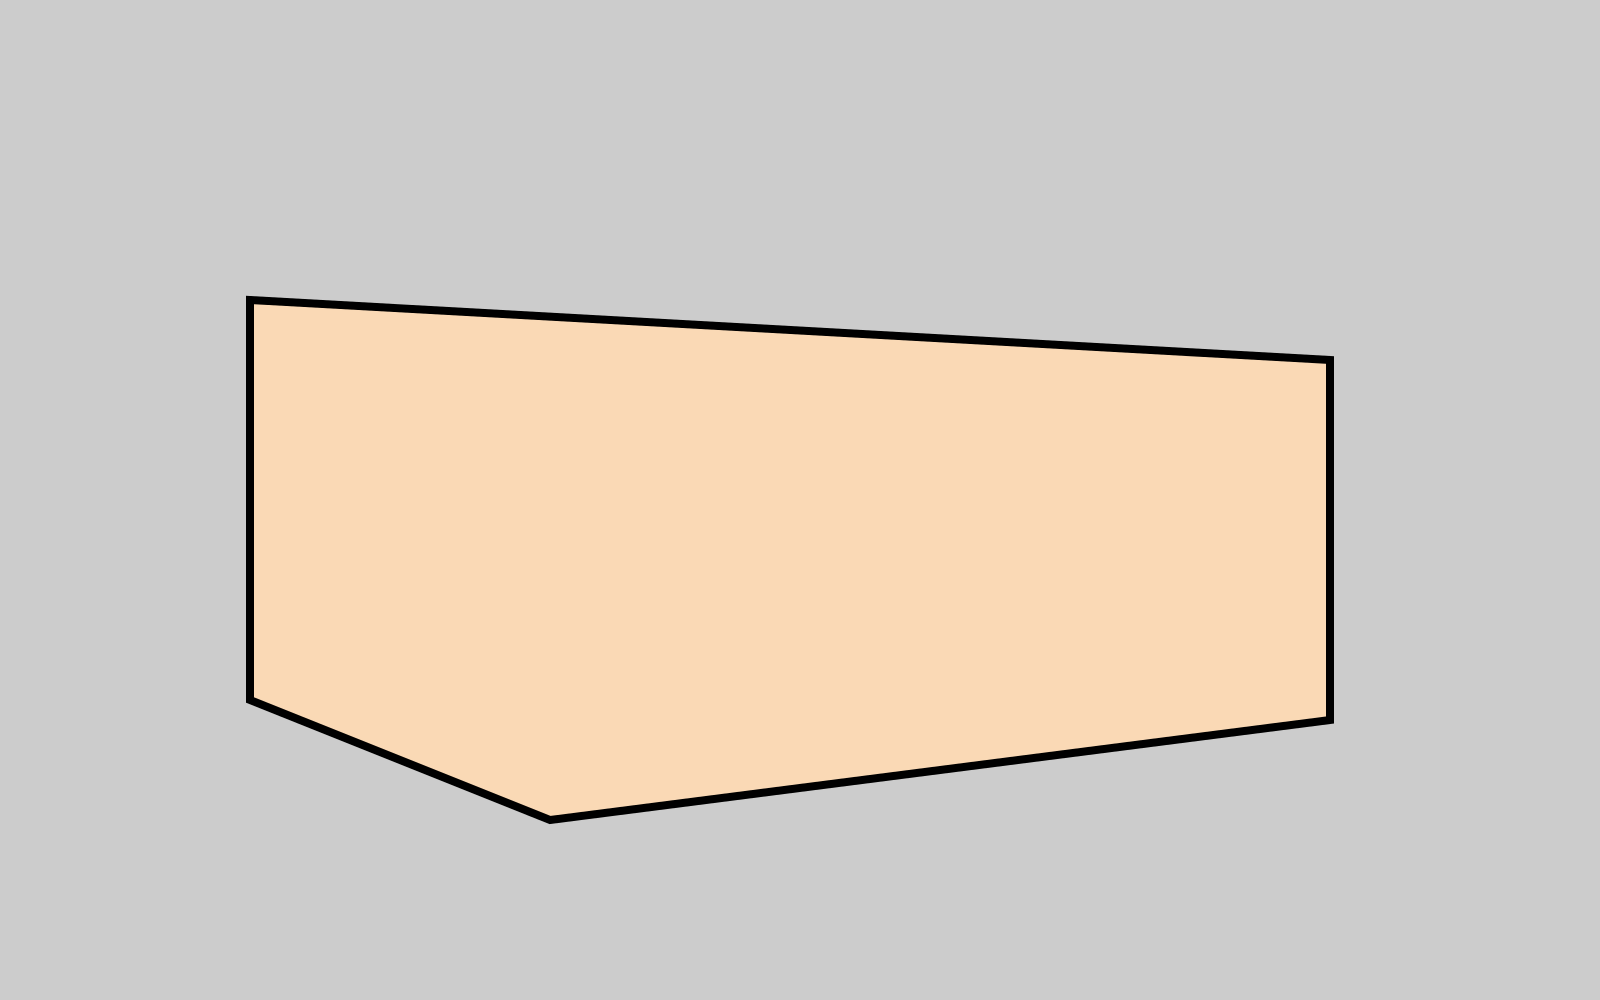
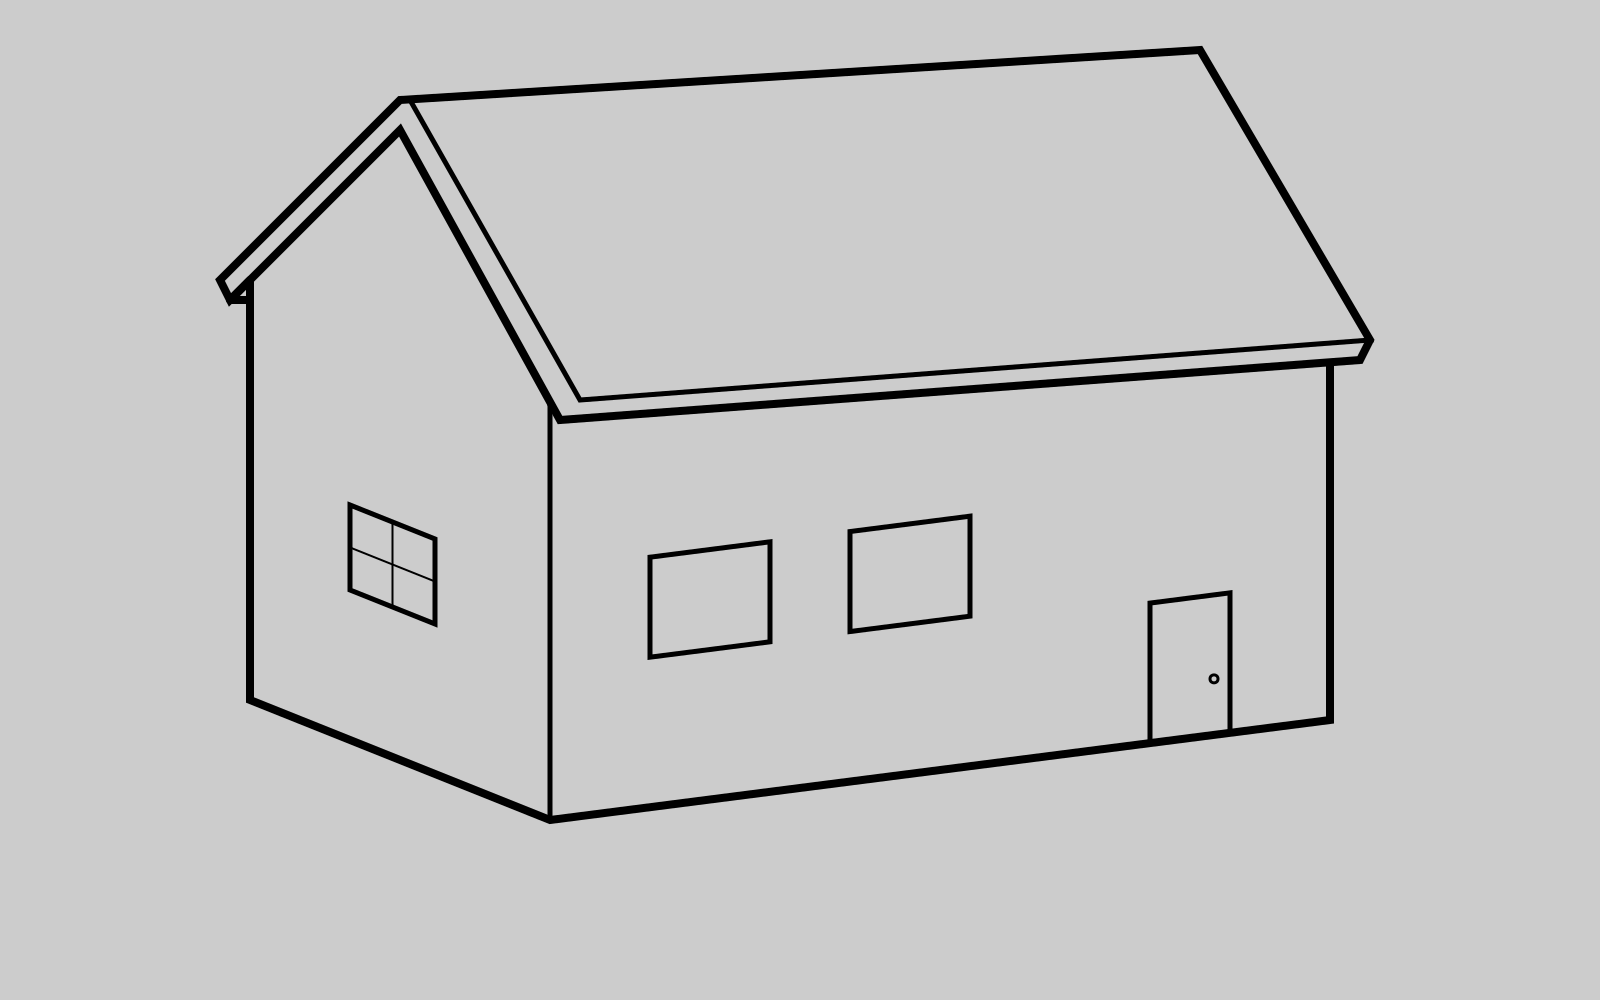
update

diff --git a/house.py b/house.py
@@ -3,10 +3,7 @@ import math
 
 WIDTH, HEIGHT = 1600, 1000
 BG_COLOR = (0.8, 0.8, 0.8)
-
-# Define colors
-house_color = (0.98, 0.85, 0.71)  # Beige color for the house
-frame_color = (0, 0, 0)           # Black color for the frames
+frame_color = (0, 0, 0)  # Black color for the outlines
 
 # Set up surface
 surface = cairo.ImageSurface(cairo.FORMAT_ARGB32, WIDTH, HEIGHT)
@@ -14,22 +11,120 @@ ctx = cairo.Context(surface)
 ctx.set_source_rgb(*BG_COLOR)
 ctx.paint()
 
-# Draw the house walls
+# Roof outline
+ctx.set_line_width(5)
+ctx.set_source_rgb(*frame_color)
+ctx.move_to(410, 100)
+ctx.line_to(1200, 50)
+ctx.line_to(1370, 340)
+ctx.line_to(580, 400)
+ctx.close_path()
+ctx.stroke()
+
+# House outline
+ctx.set_line_width(8)
+ctx.move_to(220, 280)  # x6, y6
+ctx.line_to(400, 100)  # x1, y1
+ctx.line_to(1200, 50)
+ctx.line_to(1370, 340)
+ctx.line_to(1360, 360)
+ctx.line_to(560, 420)
+ctx.line_to(400, 130)  # x1, y1 + 30
+ctx.line_to(230, 300)  # x5, y5
+ctx.close_path()
+ctx.stroke()
+
+ctx.move_to(230, 300)
+ctx.line_to(250, 300)
+ctx.line_to(250, 280)
+ctx.set_line_join(cairo.LINE_JOIN_ROUND)
+ctx.close_path()
+ctx.stroke()
+
+# House lower part outline
 ctx.set_line_width(8)
 ctx.set_line_join(cairo.LINE_JOIN_MITER)
-
-# Fill the lower part of the house (walls)
-ctx.set_source_rgb(*house_color)
 ctx.move_to(250, 300)
 ctx.line_to(250, 700)
 ctx.line_to(550, 820)
 ctx.line_to(1330, 720)
 ctx.line_to(1330, 360)
-ctx.close_path()
-ctx.fill_preserve()
+ctx.stroke()
 
-# Draw outlines for the walls
-ctx.set_source_rgb(*frame_color)
+ctx.set_line_width(5)
+ctx.move_to(550, 820)
+ctx.line_to(550, 400)
+ctx.stroke()
+
+# Door outline
+ctx.set_line_width(5)
+door_height = 140
+door_width = 80
+door_bottom_x = 1150
+right_wall_dx = 1330 - 550
+right_wall_dy = 720 - 820
+right_wall_slope = right_wall_dy / right_wall_dx
+door_bottom_y = 820 + (door_bottom_x - 550) * right_wall_slope
+
+ctx.move_to(door_bottom_x, door_bottom_y)
+ctx.line_to(door_bottom_x, door_bottom_y - door_height)
+ctx.line_to(door_bottom_x + door_width, door_bottom_y + door_width * right_wall_slope - door_height)
+ctx.line_to(door_bottom_x + door_width, door_bottom_y + door_width * right_wall_slope)
+ctx.close_path()
+ctx.stroke()
+
+# Doorknob
+ctx.set_line_width(3)
+knob_x = door_bottom_x + door_width * 0.8
+knob_y = door_bottom_y + (door_width * 0.8 * right_wall_slope) - door_height * 0.4
+ctx.arc(knob_x, knob_y, 4, 0, 2*math.pi)
+ctx.stroke()
+
+# Windows outlines
+ctx.set_line_width(5)
+window1_bottom_x = 650
+window1_width = 120
+window1_height = 100
+window1_bottom_y = 820 + (window1_bottom_x - 550) * right_wall_slope - 150
+ctx.move_to(window1_bottom_x, window1_bottom_y)
+ctx.line_to(window1_bottom_x, window1_bottom_y - window1_height)
+ctx.line_to(window1_bottom_x + window1_width, window1_bottom_y + window1_width * right_wall_slope - window1_height)
+ctx.line_to(window1_bottom_x + window1_width, window1_bottom_y + window1_width * right_wall_slope)
+ctx.close_path()
+ctx.stroke()
+
+window2_bottom_x = 850
+window2_bottom_y = 820 + (window2_bottom_x - 550) * right_wall_slope - 150
+ctx.move_to(window2_bottom_x, window2_bottom_y)
+ctx.line_to(window2_bottom_x, window2_bottom_y - window1_height)
+ctx.line_to(window2_bottom_x + window1_width, window2_bottom_y + window1_width * right_wall_slope - window1_height)
+ctx.line_to(window2_bottom_x + window1_width, window2_bottom_y + window1_width * right_wall_slope)
+ctx.close_path()
+ctx.stroke()
+
+window3_bottom_x = 350
+left_wall_dx = 550 - 250
+left_wall_dy = 820 - 700
+left_wall_slope = left_wall_dy / left_wall_dx
+window3_size = 85
+window3_bottom_y = 700 + (window3_bottom_x - 250) * left_wall_slope - 150
+ctx.move_to(window3_bottom_x, window3_bottom_y)
+ctx.line_to(window3_bottom_x, window3_bottom_y - window3_size)
+ctx.line_to(window3_bottom_x + window3_size, window3_bottom_y + window3_size * left_wall_slope - window3_size)
+ctx.line_to(window3_bottom_x + window3_size, window3_bottom_y + window3_size * left_wall_slope)
+ctx.close_path()
+ctx.stroke()
+
+# Add window panes
+ctx.set_line_width(2)
+mid_x = window3_bottom_x + window3_size/2
+mid_y = window3_bottom_y + (window3_size/2) * left_wall_slope
+ctx.move_to(mid_x, mid_y)
+ctx.line_to(mid_x, mid_y - window3_size)
+ctx.stroke()
+
+ctx.move_to(window3_bottom_x, window3_bottom_y - window3_size/2)
+ctx.line_to(window3_bottom_x + window3_size, window3_bottom_y + window3_size * left_wall_slope - window3_size/2)
 ctx.stroke()
 
 # Save to PNG
